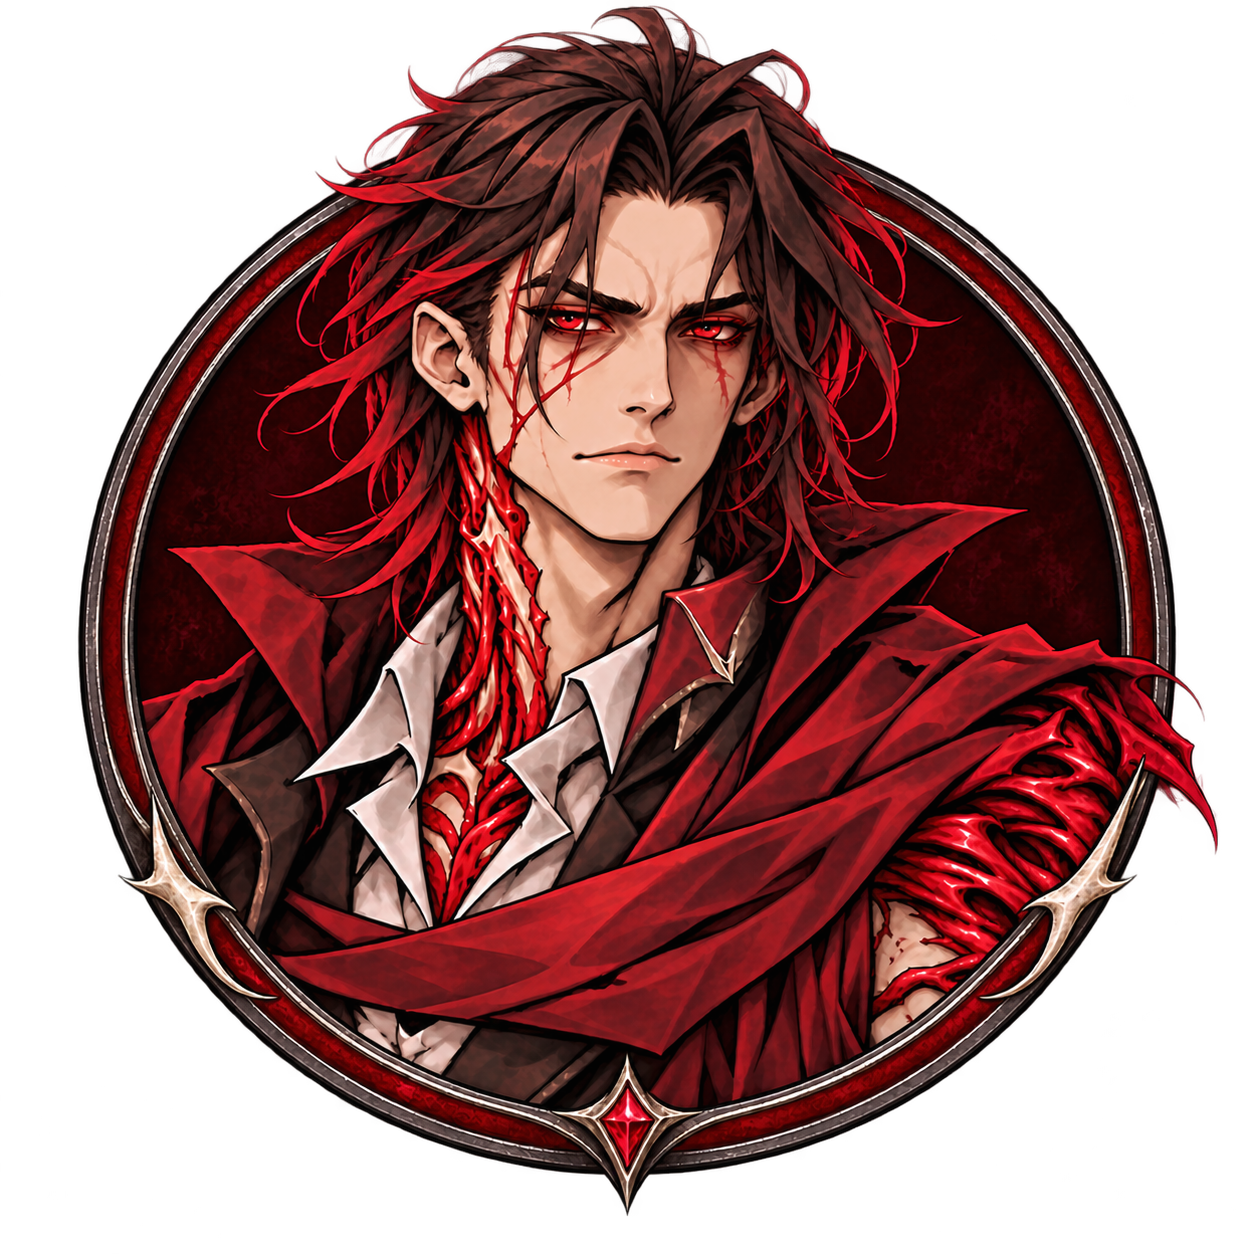
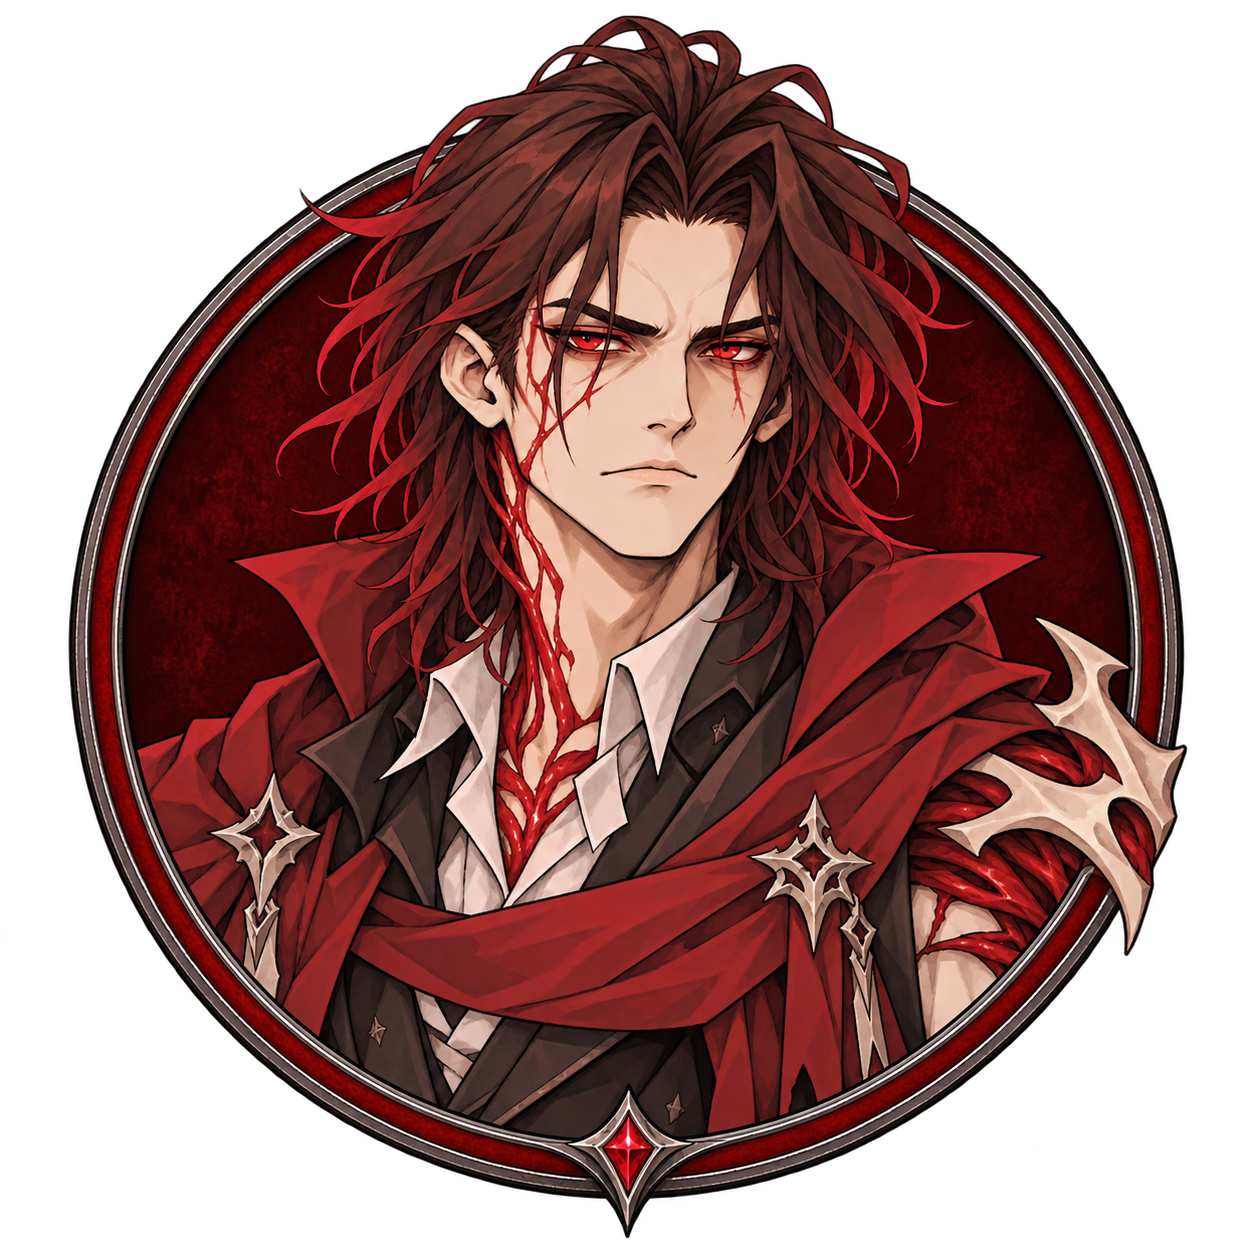
Redraw Edrik in Emili's illustration style and replace all token variants

diff --git a/ART_PROMPTS_EDRIK.md b/ART_PROMPTS_EDRIK.md
@@ -1,0 +1,31 @@
+# Edrik artwork 3.11.1
+
+Generated with the built-in image_gen tool. Style reference: Emili's portrait. Existing Edrik artwork used for identity and equipment; old tokens used for frames only.
+
+## portrait
+
+Saved asset: assets/portraits/edrik-valter.png
+
+Prompt:
+Use case: style-transfer. Redraw Edrik (image 2, male character identity and costume reference) in exactly the hand-drawn anime character concept illustration style of Emili (image 1, STYLE reference only). Match image 1's restrained clean dark outlines, flat muted red/brown colors, simple cel shadows, matte surfaces, sparse highlights, understated eyes and facial rendering, slightly sketchy hand-painted edges. Avoid the glossy highly detailed rendering of image 2. Edrik is her adult brother: retain his messy medium dark reddish brown hair, red eyes, pale skin, stern CLOSED mouth, upright untilted head, crimson tattered long coat/scarf over dark waistcoat and pale open collar, one ivory-bone armored mutated arm and blood-red organic sword in the other hand. Simplify small costume details to the same detail density as Emili, preserve recognizable silhouette and gear. Full body portrait head to boots and sword tip entirely in frame, generous margins, light plain white background like Emili. Only Edrik, no female character. No words, writing, captions, logos, frame or watermark. It should look drawn by the same artist on the same character-sheet series as image 1.
+
+## standard
+
+Saved asset: assets/tokens/edrik-valter.png
+
+Prompt:
+Use case: compositing/style-transfer. Make one square transparent-background Foundry VTT portrait token of Edrik. Image 1 is his NEW character art: faithfully preserve its face, hair, clothes, pale skin, red eyes, upright head and closed mouth, and especially its matte hand-drawn anime lines and restrained flat cel shading. Image 2 is ONLY the layout/frame reference from the old token: replace its old glossy character with a bust of the NEW Edrik from image 1. Image 3 is Emili, the drawing STYLE reference: simple hand-drawn contours, broad flat color shapes, sparse soft shadows, no glossy photoreal rendering. Large clearly readable face and shoulders, show whole hair and face, crop below chest. Burgundy background INSIDE the ring, fully transparent alpha OUTSIDE silhouette and ring, no white or black rectangular background, no checkerboard pixels. Preserve the reference's red silver circular frame with four restrained points. Keep the character entirely within the circle. No text, no names, no watermarks. One token only, not a contact sheet.
+
+## named
+
+Saved asset: assets/tokens/named/edrik-valter.png
+
+Prompt:
+Use case: compositing/style-transfer. Make one square transparent-background Foundry VTT portrait token of Edrik. Image 1 is his NEW character art: faithfully preserve its face, hair, clothes, pale skin, red eyes, upright head and closed mouth, and especially its matte hand-drawn anime lines and restrained flat cel shading. Image 2 is ONLY the layout/frame reference from the old token: replace its old glossy character with a bust of the NEW Edrik from image 1. Image 3 is Emili, the drawing STYLE reference: simple hand-drawn contours, broad flat color shapes, sparse soft shadows, no glossy photoreal rendering. Large clearly readable face and shoulders, show whole hair and face, crop below chest. Burgundy background INSIDE the ring, fully transparent alpha OUTSIDE silhouette and ring, no white or black rectangular background, no checkerboard pixels. Use the same SIMPLE thin red and dark-silver ring with only a tiny bottom diamond, no elaborate ornament. His hair and one shoulder slightly overlap the ring, but remain inside the square canvas with safe margins. No text, no names, no watermarks. One token only, not a contact sheet.
+
+## ornate
+
+Saved asset: assets/tokens/named/ornate/edrik-valter.png
+
+Prompt:
+Use case: compositing/style-transfer. Make one square transparent-background Foundry VTT portrait token of Edrik. Image 1 is his NEW character art: faithfully preserve its face, hair, clothes, pale skin, red eyes, upright head and closed mouth, and especially its matte hand-drawn anime lines and restrained flat cel shading. Image 2 is ONLY the layout/frame reference from the old token: replace its old glossy character with a bust of the NEW Edrik from image 1. Image 3 is Emili, the drawing STYLE reference: simple hand-drawn contours, broad flat color shapes, sparse soft shadows, no glossy photoreal rendering. Large clearly readable face and shoulders, show whole hair and face, crop below chest. Burgundy background INSIDE the ring, fully transparent alpha OUTSIDE silhouette and ring, no white or black rectangular background, no checkerboard pixels. Preserve the reference's ornate ivory gold red circular frame and gems. Character stays inside the frame. No text, no names, no watermarks. One token only, not a contact sheet.

diff --git a/RELEASE_NOTES.md b/RELEASE_NOTES.md
@@ -1,11 +1,7 @@
-# 3.11.0 — Эдрик и Эмили
+# 3.11.1 — Эдрик в рисовке Эмили
 
-- Брат и сестра с одинаковым ПО 6: Эдрик — подвижный дуэлянт, Эмили — защитница.
-- Эдрик: ответный выпад, преследование кровоточащих врагов, обновлённые атаки и ресурсы. Эмили: замедление Клинком сердца, Сердечный заслон за Кость Хитов и автоматическое предложение парирования.
-- У Эмили закрыт рот, у Эдрика выпрямлена голова на портретах и всех трёх вариантах токенов.
-- Раздельные иконки клинков, когтей, укусов, мультиатаки и новых способностей.
-- Технические подсказки убраны из листов; порядок применения описан в SIBLINGS.md и SPELLS.md.
+Портрет Эдрика перерисован в стиле Эмили: контурная рисовка, сдержанные цвета и мягкие плоские тени. Сохранены его внешность, прямое положение головы, одежда, костяная рука и клинок.
 
-После обновления импортируйте Эдрика и Эмили заново из компендиума: существующие NPC мира автоматически не заменяются. Сначала сохраните свои изменения старых листов. Для картинок при необходимости нажмите Ctrl+F5.
+Заменены обычный токен и оба именных варианта — лаконичный и украшенный. Прозрачность токенов сохранена, лицо видно целиком. Все изображения доступны по прежним путям, поэтому повторный импорт NPC для этого обновления не нужен. После установки перезагрузите клиент; если остались старые картинки, нажмите Ctrl+F5.
 
-Проверены 90 автоматических тестов и сборка нативных компендиумов с путями ассетов. Проверка в интерфейсе Foundry не выполнялась.
+Характеристики и боевые способности не изменены.

diff --git a/CHANGELOG.md b/CHANGELOG.md
@@ -1,3 +1,11 @@
+# 3.11.1 — Эдрик в рисовке Эмили
+
+Портрет Эдрика перерисован в стиле Эмили: контурная рисовка, сдержанные цвета и мягкие плоские тени. Сохранены его внешность, прямое положение головы, одежда, костяная рука и клинок.
+
+Заменены обычный токен и оба именных варианта — лаконичный и украшенный. Прозрачность токенов сохранена, лицо видно целиком. Все изображения доступны по прежним путям, поэтому повторный импорт NPC для этого обновления не нужен. После установки перезагрузите клиент; если остались старые картинки, нажмите Ctrl+F5.
+
+Характеристики и боевые способности не изменены.
+
 # 3.11.0 — Эдрик и Эмили
 
 - Брат и сестра с одинаковым ПО 6: Эдрик — подвижный дуэлянт, Эмили — защитница.

diff --git a/README.md b/README.md
@@ -1,3 +1,7 @@
+# Обновление 3.11.1
+
+Эдрик перерисован в стиле Эмили. Обновлены портрет, обычный токен и оба именных варианта. Пути сохранены: для смены артов достаточно обновить модуль и перезагрузить клиент (при необходимости Ctrl+F5).
+
 # Обновление 3.11.0
 
 Эдрик и Эмили стали братом и сестрой с ПО 6 и разными стилями боя. Исправлены лица на портретах и всех вариантах токенов, заменены иконки атак, описания очищены от технических подсказок. Новые способности и обновление листов: [SIBLINGS.md](SIBLINGS.md).
